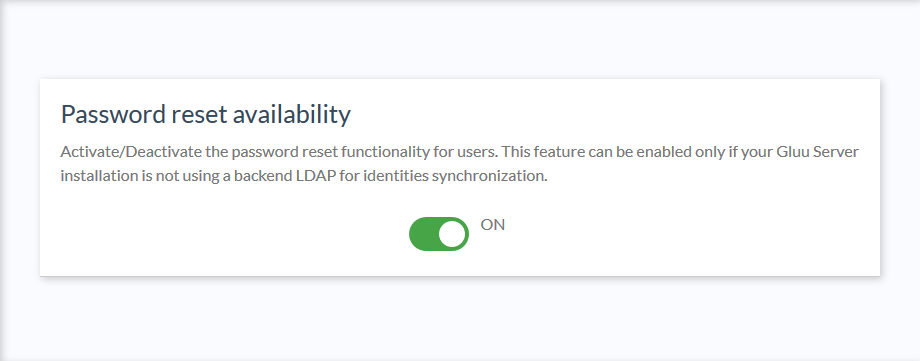
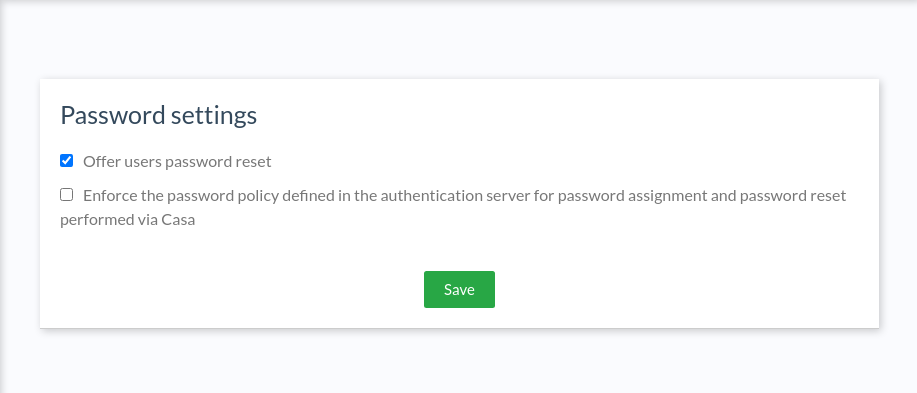
docs: update password reset screen #11081

diff --git a/docs/casa/administration/admin-console.md b/docs/casa/administration/admin-console.md
@@ -28,11 +28,12 @@ Widgets shown vary according to plugins installed. In a fresh installation, the 
 
 To add more authentication methods, please check the developer [guide](../developer/add-authn-methods.md).
 
-## Pass reset config
+## Password settings
 
-An admin
-can give users the ability to reset their password from inside Casa. To enable the password reset functionality,
-navigate to `Pass reset config` and click the toggle to `ON`.
+In this section, administrators may configure:
+
+- The ability for users to reset their password from inside Casa
+- Apply the rules defined for the `userPassword` attribute (length and regular expression) in Casa
 
 ![pw-reset-settings](../../assets/casa/admin-console/pw-reset-setting.png)
 
